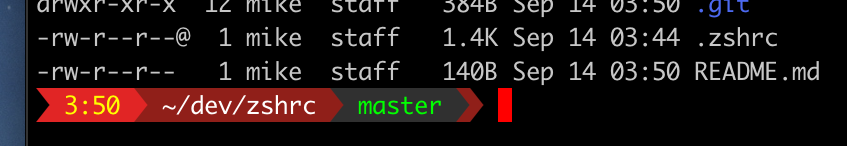
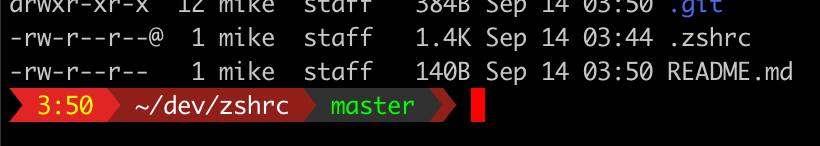
Added usage to readme, fixed example img

Changed region(s): [[0.0, 0.0, 0.9756, 1.0]]

diff --git a/README.md b/README.md
@@ -1,4 +1,10 @@
+# ZSHRC
+
 My .zshrc, including customized prompt showing time, path, and git repo info (branch and dirty/clean status).
 
 ![prompt example](prompt.png)
+
+## Usage
+
+Requires Powerline font.  Note ***iTerm2*** includes these already, just goto `Preferences > Profiles > Text`, and enable `Use built-in Powerline glyphs`.
 
